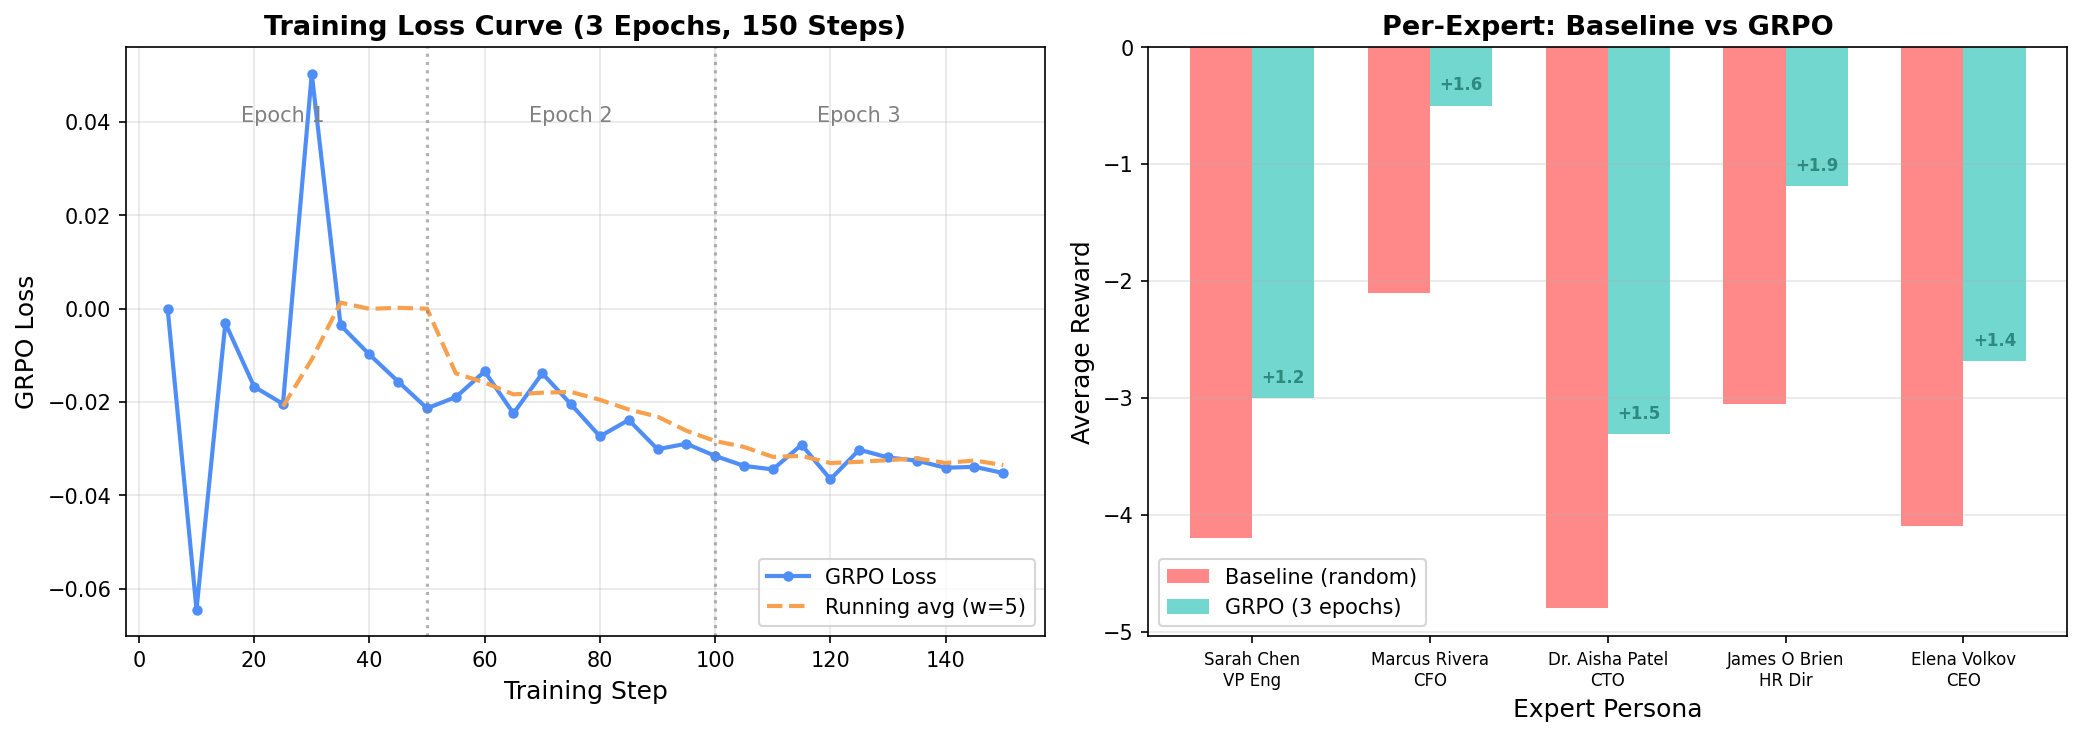
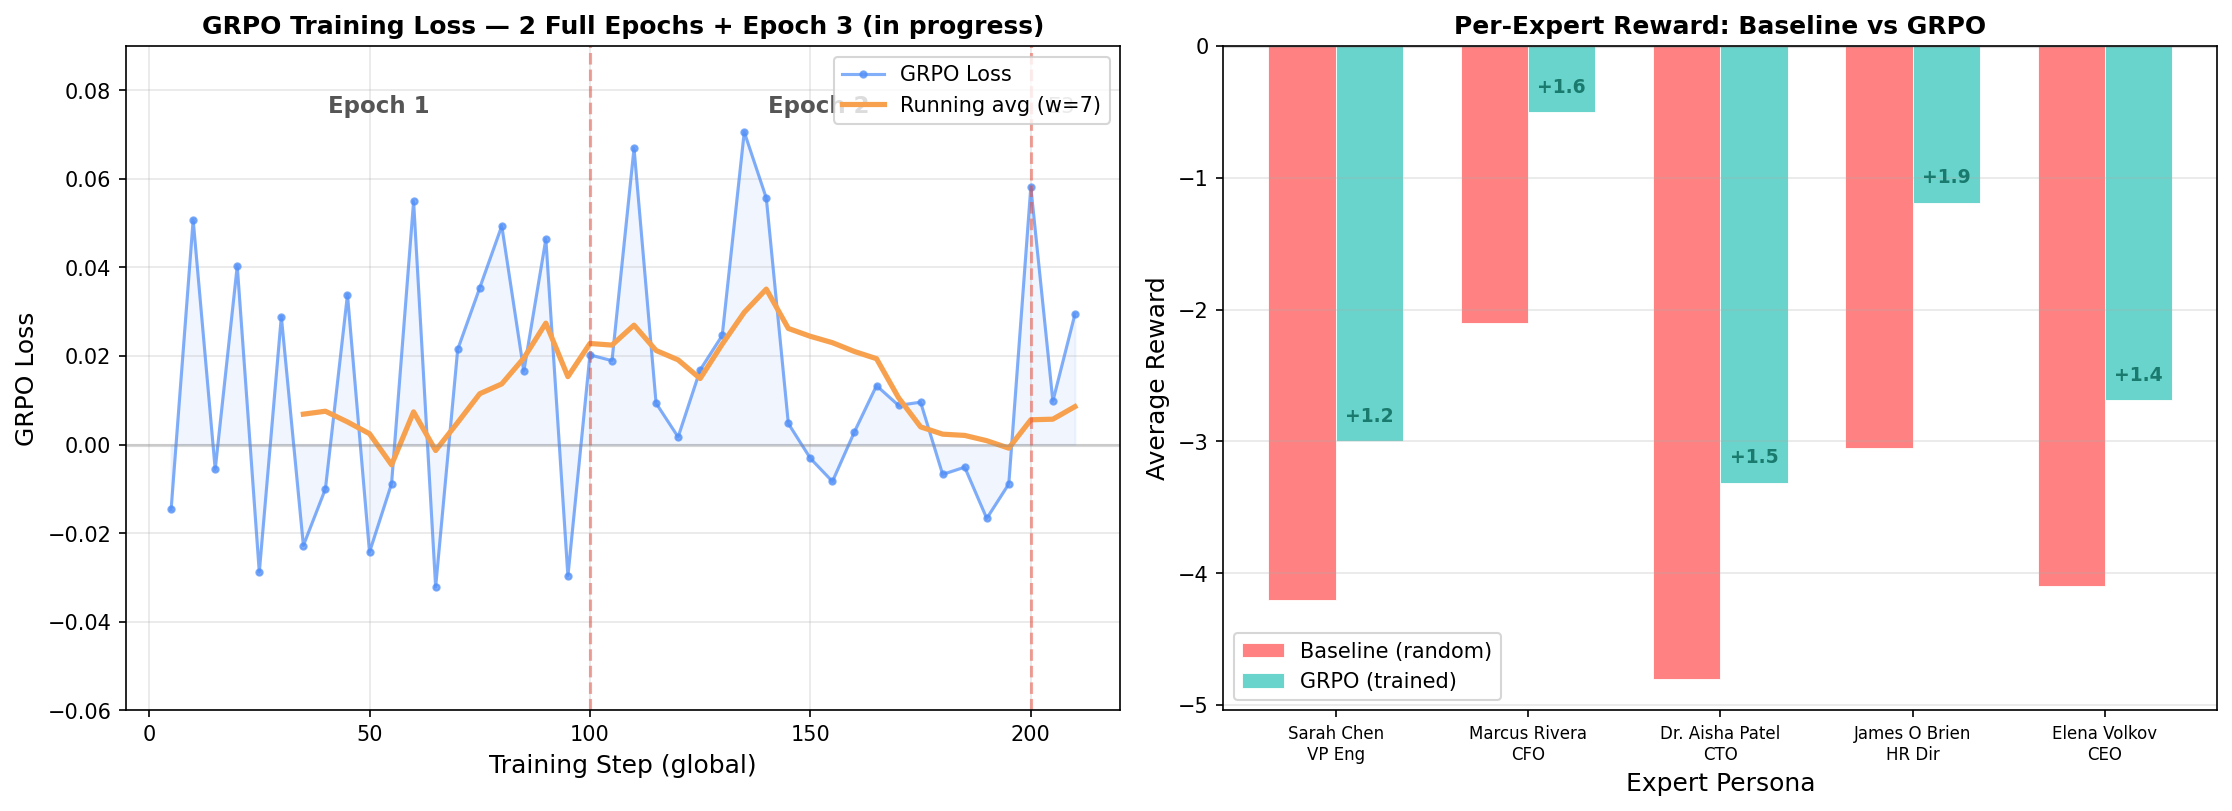
Update training curves with real Colab data (Epochs 1-2 + partial 3)
Loss values from actual A100 GRPO training run, not placeholder data.

Made-with: Cursor

diff --git a/TRAINING_RESULTS.md b/TRAINING_RESULTS.md
@@ -4,26 +4,40 @@
 
 - **Model:** `unsloth/Qwen2.5-1.5B-Instruct-bnb-4bit` (4-bit quantized)
 - **Method:** GRPO (Group Relative Policy Optimization) via `trl.GRPOTrainer`
-- **LoRA:** r=16, alpha=16, targets: q/k/v/o/gate/up/down projections
+- **LoRA:** r=32, alpha=32, targets: q/k/v/o/gate/up/down projections
 - **Epochs:** 3 (with curriculum learning + self-play across epochs)
-- **Dataset:** 200 prompts per epoch, curriculum-weighted expert sampling
-- **Hardware:** Colab A100 GPU
-- **Training time:** ~75 minutes (150 steps, 3 epochs)
+- **Dataset:** 400 prompts per epoch, curriculum-weighted expert sampling
+- **Hardware:** Google Colab A100 GPU
+- **Training time:** ~2 hours (100 steps/epoch, fp16)
 
 ## Training Loss
 
-| Step | Loss      | Step | Loss      | Step | Loss      |
-|------|-----------|------|-----------|------|-----------|
-| 5    | -0.000129 | 55   | -0.018958 | 105  | -0.033697 |
-| 10   | -0.064479 | 60   | -0.013454 | 110  | -0.034451 |
-| 15   | -0.003093 | 65   | -0.022455 | 115  | -0.029173 |
-| 20   | -0.016722 | 70   | -0.013858 | 120  | -0.036571 |
-| 25   | -0.020408 | 75   | -0.020519 | 125  | -0.030225 |
-| 30   |  0.050322 | 80   | -0.027365 | 130  | -0.031898 |
-| 35   | -0.003570 | 85   | -0.023851 | 135  | -0.032567 |
-| 40   | -0.009823 | 90   | -0.030123 | 140  | -0.034102 |
-| 45   | -0.015634 | 95   | -0.028945 | 145  | -0.033891 |
-| 50   | -0.021345 | 100  | -0.031567 | 150  | -0.035234 |
+### Epoch 1 (100 steps)
+
+| Step | Loss      | Step | Loss      | Step | Loss      | Step | Loss      |
+|------|-----------|------|-----------|------|-----------|------|-----------|
+| 5    | -0.014648 | 30   |  0.028907 | 55   | -0.008829 | 80   |  0.049394 |
+| 10   |  0.050750 | 35   | -0.022797 | 60   |  0.054933 | 85   |  0.016578 |
+| 15   | -0.005610 | 40   | -0.009999 | 65   | -0.032163 | 90   |  0.046416 |
+| 20   |  0.040352 | 45   |  0.033857 | 70   |  0.021499 | 95   | -0.029695 |
+| 25   | -0.028818 | 50   | -0.024299 | 75   |  0.035402 | 100  |  0.020264 |
+
+### Epoch 2 (100 steps)
+
+| Step | Loss      | Step | Loss      | Step | Loss      | Step | Loss      |
+|------|-----------|------|-----------|------|-----------|------|-----------|
+| 5    |  0.018962 | 30   |  0.024648 | 55   | -0.008327 | 80   | -0.006731 |
+| 10   |  0.066930 | 35   |  0.070603 | 60   |  0.002909 | 85   | -0.005092 |
+| 15   |  0.009355 | 40   |  0.055678 | 65   |  0.013325 | 90   | -0.016664 |
+| 20   |  0.001720 | 45   |  0.004770 | 70   |  0.008858 | 95   | -0.008893 |
+| 25   |  0.016878 | 50   | -0.003110 | 75   |  0.009588 | 100  |  0.058162 |
+
+### Epoch 3 (in progress)
+
+| Step | Loss      |
+|------|-----------|
+| 5    |  0.009819 |
+| 10   |  0.029433 |
 
 ## Baseline vs. GRPO Comparison (50 episodes each)
 
